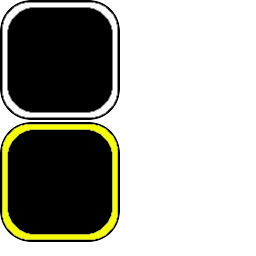
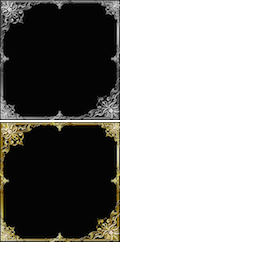
星を家紋へ変更、ローカル通知バグ修正、コインを小判へ、他。

Changed region(s): [[0.0, 0.0, 0.4688, 0.9688]]

diff --git a/VirginTech3rdProject/ItemInventoryLayer.m b/VirginTech3rdProject/ItemInventoryLayer.m
@@ -73,7 +73,7 @@ CCLabelBMFont* coinLabel;
     //=================
     // シールド
     //=================
-    lbl_Item_02=[CCLabelTTF labelWithString:[NSString stringWithFormat:@"シールド（現有数＝%03d）",[GameManager load_Item_Individual:1]] fontName:@"Verdana-Bold" fontSize:15];
+    lbl_Item_02=[CCLabelTTF labelWithString:[NSString stringWithFormat:@"防御力UP（現有数＝%03d）",[GameManager load_Item_Individual:1]] fontName:@"Verdana-Bold" fontSize:15];
     lbl_Item_02.position=ccp(lbl_Item_02.contentSize.width/2+20,lbl_Item_01.position.y-50);
     [self addChild:lbl_Item_02];
 
@@ -86,7 +86,7 @@ CCLabelBMFont* coinLabel;
     //=================
     // 突進モード
     //=================
-    lbl_Item_03=[CCLabelTTF labelWithString:[NSString stringWithFormat:@"突進モード（現有数＝%03d）",[GameManager load_Item_Individual:2]] fontName:@"Verdana-Bold" fontSize:15];
+    lbl_Item_03=[CCLabelTTF labelWithString:[NSString stringWithFormat:@"突進の術（現有数＝%03d）",[GameManager load_Item_Individual:2]] fontName:@"Verdana-Bold" fontSize:15];
     lbl_Item_03.position=ccp(lbl_Item_03.contentSize.width/2+20,lbl_Item_02.position.y-50);
     [self addChild:lbl_Item_03];
 
@@ -112,7 +112,7 @@ CCLabelBMFont* coinLabel;
     //=================
     // 高速モード
     //=================
-    lbl_Item_05=[CCLabelTTF labelWithString:[NSString stringWithFormat:@"高速モード（現有数＝%03d）",[GameManager load_Item_Individual:4]] fontName:@"Verdana-Bold" fontSize:15];
+    lbl_Item_05=[CCLabelTTF labelWithString:[NSString stringWithFormat:@"早足の術（現有数＝%03d）",[GameManager load_Item_Individual:4]] fontName:@"Verdana-Bold" fontSize:15];
     lbl_Item_05.position=ccp(lbl_Item_05.contentSize.width/2+20,lbl_Item_04.position.y-50);
     [self addChild:lbl_Item_05];
 

diff --git a/VirginTech3rdProject/ItemBtnLayer.m b/VirginTech3rdProject/ItemBtnLayer.m
@@ -58,22 +58,22 @@ CCLabelTTF* speedupValue;
             bombValue.position=ccp(btn.contentSize.width/2,bombValue.contentSize.height/2);
             [btn addChild:bombValue];
         }else if(i==1){
-            btn.title=@"シールド";
+            btn.title=@"防御力UP";
             shieldValue=[CCLabelTTF labelWithString:[NSString stringWithFormat:@"%d",[GameManager load_Item_Individual:1]] fontName:@"Verdana-Bold" fontSize:30];
             shieldValue.position=ccp(btn.contentSize.width/2,shieldValue.contentSize.height/2);
             [btn addChild:shieldValue];
         }else if(i==2){
-            btn.title=@"突撃モード";
+            btn.title=@"突進の術";
             onrushValue=[CCLabelTTF labelWithString:[NSString stringWithFormat:@"%d",[GameManager load_Item_Individual:2]] fontName:@"Verdana-Bold" fontSize:30];
             onrushValue.position=ccp(btn.contentSize.width/2,onrushValue.contentSize.height/2);
             [btn addChild:onrushValue];
         }else if(i==3){
-            btn.title=@"攻撃アップ";
+            btn.title=@"攻撃力UP";
             attackupValue=[CCLabelTTF labelWithString:[NSString stringWithFormat:@"%d",[GameManager load_Item_Individual:3]] fontName:@"Verdana-Bold" fontSize:30];
             attackupValue.position=ccp(btn.contentSize.width/2,attackupValue.contentSize.height/2);
             [btn addChild:attackupValue];
         }else if(i==4){
-            btn.title=@"高速モード";
+            btn.title=@"早足の術";
             speedupValue=[CCLabelTTF labelWithString:[NSString stringWithFormat:@"%d",[GameManager load_Item_Individual:4]] fontName:@"Verdana-Bold" fontSize:30];
             speedupValue.position=ccp(btn.contentSize.width/2,speedupValue.contentSize.height/2);
             [btn addChild:speedupValue];

diff --git a/VirginTech3rdProject/SelectScene.m b/VirginTech3rdProject/SelectScene.m
@@ -67,16 +67,16 @@ CCScrollView* scrollView;
             CCButton* selectBtn=[CCButton buttonWithTitle:@""
                             spriteFrame:[[CCSpriteFrameCache sharedSpriteFrameCache]spriteFrameByName:@"player.png"]];
             
-            if([GameManager getDevice]==3){
-                selectBtn.scale=0.5;
-            }else{
+            if([GameManager getDevice]==1){
                 selectBtn.scale=0.7;
+            }else{
+                selectBtn.scale=0.5;
             }
 
             if(j%2==0){
-                selectBtn.position=CGPointMake(btnPos.x, btnPos.y-(j*(selectBtn.contentSize.height*selectBtn.scale+20)/2));
+                selectBtn.position=CGPointMake(btnPos.x, btnPos.y-(j*(selectBtn.contentSize.height*selectBtn.scale+15)/2));
             }else{
-                selectBtn.position=CGPointMake(btnPos.x+100, btnPos.y-((j-1)*(selectBtn.contentSize.height*selectBtn.scale+20)/2));
+                selectBtn.position=CGPointMake(btnPos.x+100, btnPos.y-((j-1)*(selectBtn.contentSize.height*selectBtn.scale+15)/2));
             }
             
             //selectBtn.position = CGPointMake(btnPos.x, btnPos.y);

diff --git a/VirginTech3rdProject/Libraries/cocos2d/Platforms/iOS/CCAppDelegate.m b/VirginTech3rdProject/Libraries/cocos2d/Platforms/iOS/CCAppDelegate.m
@@ -293,7 +293,7 @@ FindPOTScale(CGFloat size, CGFloat fixedSize)
     // インスタンス生成
     UILocalNotification *notification = [[UILocalNotification alloc] init];
     // 12時間後に通知をする（設定は秒単位）
-    notification.fireDate = [NSDate dateWithTimeIntervalSinceNow:(60 * 60 * 8)];//8時間後
+    notification.fireDate = [NSDate dateWithTimeIntervalSinceNow:(60 * 60 * 10)];//8時間後
     // タイムゾーンの設定
     notification.timeZone = [NSTimeZone defaultTimeZone];
     // 通知時に表示させるメッセージ内容

diff --git a/VirginTech3rdProject/ResultsLayer.m b/VirginTech3rdProject/ResultsLayer.m
@@ -428,7 +428,7 @@ MessageLayer* msgBox;
                        [[CCSpriteFrameCache sharedSpriteFrameCache] spriteFrameByName:@"highscore.png"]];
                 highScore.position=ccp(winSize.width/2,winSize.height/2);
                 highScore.scale=3.0;
-                [self addChild:highScore];
+                [self addChild:highScore z:2];
                 cnt=0;
                 [self schedule:@selector(high_Score_Schedule:) interval:0.01 repeat:200 delay:0];
             }else{

diff --git a/VirginTech3rdProject/Classes/AppDelegate.m b/VirginTech3rdProject/Classes/AppDelegate.m
@@ -68,6 +68,10 @@
         localPlayer.authenticateHandler = ^(UIViewController* viewController, NSError* error){};
     }
 
+    //ローカル通知の認証
+    if ([UIApplication instancesRespondToSelector:@selector(registerUserNotificationSettings:)]) {
+        [[UIApplication sharedApplication] registerUserNotificationSettings:[UIUserNotificationSettings settingsForTypes:UIUserNotificationTypeAlert|UIUserNotificationTypeSound categories:nil]];
+    }
     
 	return YES;
 }
